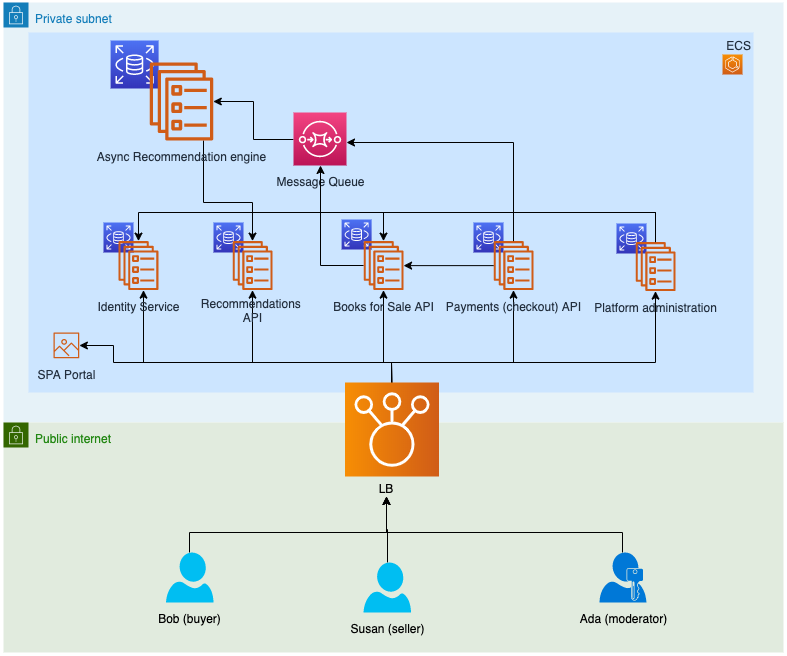
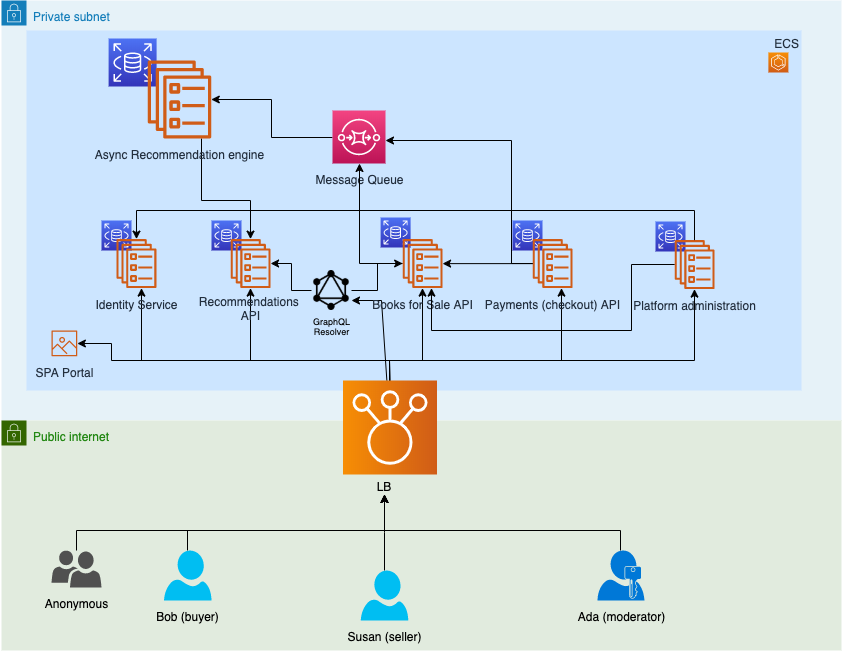
added some architectural highlights

diff --git a/documentation/architecture/index.md b/documentation/architecture/index.md
@@ -1,9 +1,78 @@
 # Platform Architecture
 
 Platform consists of multiple (micro) services which are initially split based on concerns they are addressing.
-As product grows scope of each service can be narrowed more by introducing new ones. Core principles on the other hand 
-should be kept as long as they don't impede to development speed and quality of product.
+As product grows scope of each service can be narrowed more by introducing new ones. Core principles, on the other hand, 
+should be kept as long as they don't impede development speed and quality of product.
+
+
+## General concepts
+
+### Service run and orchestration
+
+Services run by Amazon Elastic Container Service (ESC) within a private subnet. 
+Each service will be published as docker image.
+ECS will take care of application scaling based on their usage. 
+
+### Service discovery
+
+ESC uses DNS balancing which will be also used for service discovery. 
+There will be no dedicated discovery service and services will use internal service names to access each other.
+Each service should get its peer service names from its configuration, which will be provided via environment variables by AWS.
+
+For local/dev environment docker-compose should be used to run the whole app locally. 
+Names given to services shall be used to configure service clients accordingly.
+
+### Exposure of public (accessible via internet) resources and balancing
+
+AWS Load Balancer (LB) will be the only service that is exposed to public internet.
+API call and static resources (web page) access will be proxied to respective service by LB.
+
+Note:
+
+Other static resources (user avatars or similar data uploaded by users) will be kept in AWS S3 storage.
+For the moment there is no such data to serve, but once need arises AWS S3 data can be also exposed to internet bypassing LB.
+
+### Service Design principles and restrictions
+
+#### API URL format
+
+Two types of API endpoints should be differentiated - EXTERNAL & INTERNAL.
+EXTERNAL API will be exposed via Load Balancer (LB) to internet and should be secured according to business model.
+INTERNAL API will be accessible only within private network and can omit any access control until approach is changed.
+
+URL mapping should adhere to following convention 
+`/external/{api-version-prefix}/{service-own-url-mapping}` for EXTERNAL, example -> /external/v1/user/login  
+`/internal/{api-version-prefix}/{service-own-url-mapping}` for INTERNAL, example -> /internal/v1/user/search
+
+LB will proxy calls from `{APP_URL}/{service-name}/api/.*` to `http://{service-name}:{service-port}/extarnal/.*`
+
+While each service is free to choose its own database type to fulfil its functionality, it is recommended during initial 
+stage of development to stick to PostgresSQL to avoid complications during development environment setups.
+
+#### Logging
+
+Configure application to log to console. Avoid file appenders or at least use RollingFileAppender to cap disk usage.
+
+#### Mock implementation
+
+Along with main implementation of app also provide mock implementation of same service to smooth development of dependant services.
+Check [mock server](http://www.mock-server.com/) for quick fixtures based mock implementations.
+
+#### Service and its mock should be dockerized
+
+Write proper Dockerfile for both main and mock implementations. All service configuration should be possible to pass via 
+environment variables. Typical configuration to expose
+- Database url and credentials
+- Depending services endpoints names and ports
+- ip/port service binds to
+- jwt secrets
+
+#### Service Client implementation
+
+Implement client library (jar file) that will encapsulate all service calls. Service client should be configurable. 
+Other services will use only client library to access service 
 
 ### Services and topology
 
-![](./diagrams/Service%20Topology.png)
+
+![](./diagrams/Service%20Topology.png?)

diff --git a/documentation/architecture/stack.md b/documentation/architecture/stack.md
@@ -1,0 +1,35 @@
+# Technology stack and tools
+
+## Development languages
+- Java 8+
+- Groovy 2.4 (for API tests and pipelines)
+- Typescript 
+
+## Build and runtime
+
+- docker
+- docker compose
+- maven (or gradle)
+- [jenkins pipelines](https://jenkins.io/doc/book/pipeline/)
+- [gitflow](https://datasift.github.io/gitflow/IntroducingGitFlow.html)
+
+
+## Backend Frameworks & libs
+
+- [spring boot 2.2](https://spring.io/projects/spring-boot) with
+    - data jpa
+    - web
+- [lombok](https://projectlombok.org)
+- [mapstruct](https://mapstruct.org)
+- [JWT](https://jwt.io)
+- [GraphQL Java](https://www.graphql-java.com/tutorials/getting-started-with-spring-boot/)
+
+Tests & mocks with
+- [spring boot](https://spring.io/projects/spring-boot) test
+- [mockito](https://site.mockito.org)
+- [mock server](http://www.mock-server.com/)
+
+## Frontend frameworks and libs
+- [Angular 9](https://angular.io)
+- [Angular Material](https://material.angular.io)
+- [Apollo Angular](https://www.apollographql.com/docs/angular/)

diff --git a/README.md b/README.md
@@ -10,6 +10,7 @@ multiple ones so that separate teams working on it have more flexibility and fre
 ## Documentation Index
 - [General Overview](./documentation/overview/index.md)
 - [Requirements](./documentation/requirements/index.md)
+- [Technology stack and tools](./documentation/architecture/stack.md)
 - [Architecture](./documentation/architecture/index.md)
 - [Implementation roadmap](./documentation/roadmap/index.md)
 
@@ -19,5 +20,6 @@ multiple ones so that separate teams working on it have more flexibility and fre
 - [Identity service](./documentation/architecture/services/identity/index.md)
 - [Recommendations API](./documentation/architecture/services/recommendations/index.md)
 - [User books for sale API]()
+- [Platform administration API]()
 - [The Deep Thought Engine]()
 - [Checkout service]()
